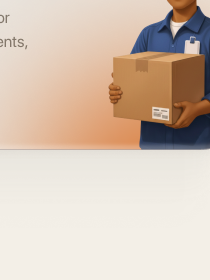
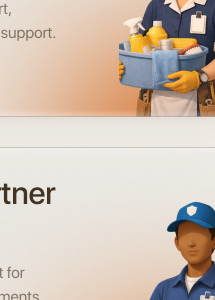
Fix hero image clipping and align Mission, Features, and Services with Figma.
Re-crop the hero team photo with proper headroom, rebuild Mission and Why Union sections using Figma grid assets, and refresh service card images and section styling.

diff --git a/src/components/Features.tsx b/src/components/Features.tsx
@@ -2,109 +2,30 @@ import Image from "next/image";
 import { SectionHeading } from "./ui/SectionHeading";
 import { SectionTag } from "./ui/SectionTag";
 
-const leftFeatures = [
-  { icon: "✓", title: "Verified Opportunities", desc: "Discover jobs for your skills." },
-  { icon: "👥", title: "Union Support", desc: "Empowering gig workers." },
-  { icon: "💼", title: "Flexible Work Options", desc: "Select your schedule." },
-  { icon: "💰", title: "Fair Wages", desc: "Reliable income." },
-];
-
-const rightFeatures = [
-  { icon: "🛡", title: "Trusted Professionals", desc: "All workers are verified." },
-  { icon: "▦", title: "Seamless Booking", desc: "Manage services easily." },
-  { icon: "🕐", title: "Flexible Scheduling", desc: "Book services anytime." },
-  { icon: "✓", title: "Safe & Transparent", desc: "Safe payments." },
-];
-
-function FeaturePill({
-  title,
-  desc,
-  icon,
-  className = "",
-}: {
-  title: string;
-  desc: string;
-  icon: string;
-  className?: string;
-}) {
-  return (
-    <div
-      className={`rounded-2xl border border-[#ebe8e4] bg-white/80 px-4 py-3 shadow-sm backdrop-blur-sm ${className}`}
-    >
-      <div className="flex items-start gap-2.5">
-        <span className="flex h-7 w-7 shrink-0 items-center justify-center rounded-lg bg-union-orange/10 text-xs text-union-orange">
-          {icon}
-        </span>
-        <div>
-          <div className="text-xs font-semibold text-[#3d3428]">{title}</div>
-          <div className="text-[10px] text-[#7a756d]">{desc}</div>
-        </div>
-      </div>
-    </div>
-  );
-}
-
 export function Features() {
   return (
-    <section className="py-16 md:py-24">
+    <section id="why-union" className="py-16 md:py-24">
       <div className="section-container">
         <div className="text-center">
-          <SectionTag>Features</SectionTag>
+          <SectionTag>Why Union?</SectionTag>
           <SectionHeading className="mt-4">
             Designed Around <em>Everyday People.</em>
           </SectionHeading>
           <p className="mx-auto mt-4 max-w-2xl text-sm text-union-gray md:text-base">
-            Empowering gig workers with better opportunities while delivering trusted, seamless services for modern homes.
+            Empowering gig workers with better opportunities while delivering trusted, seamless
+            services for modern homes.
           </p>
         </div>
 
-        <div className="relative mx-auto mt-14 max-w-4xl">
-          {/* Left pills - desktop */}
-          <div className="absolute top-0 left-0 z-10 hidden w-44 flex-col gap-3 md:flex">
-            {leftFeatures.map((f, i) => (
-              <FeaturePill key={f.title} {...f} className={i % 2 === 1 ? "ml-4" : ""} />
-            ))}
-          </div>
-
-          {/* Right pills - desktop */}
-          <div className="absolute top-0 right-0 z-10 hidden w-44 flex-col gap-3 md:flex">
-            {rightFeatures.map((f, i) => (
-              <FeaturePill key={f.title} {...f} className={i % 2 === 1 ? "mr-4" : ""} />
-            ))}
-          </div>
-
-          {/* Phone mockups */}
-          <div className="flex items-center justify-center gap-4 md:gap-6">
-            <div className="card-shadow w-[42%] max-w-[200px] overflow-hidden rounded-[2rem] border-[3px] border-union-orange bg-union-orange p-[3px]">
-              <div className="overflow-hidden rounded-[1.6rem] bg-white">
-                <Image
-                  src="/images/phone-feature-left.png"
-                  alt="Union worker app"
-                  width={200}
-                  height={400}
-                  className="h-auto w-full"
-                />
-              </div>
-            </div>
-            <div className="card-shadow w-[42%] max-w-[200px] overflow-hidden rounded-[2rem] border-[3px] border-union-orange bg-union-orange p-[3px]">
-              <div className="overflow-hidden rounded-[1.6rem] bg-white">
-                <Image
-                  src="/images/phone-feature-right.png"
-                  alt="Union customer app"
-                  width={200}
-                  height={400}
-                  className="h-auto w-full"
-                />
-              </div>
-            </div>
-          </div>
-
-          {/* Mobile pills */}
-          <div className="mt-8 grid grid-cols-2 gap-2 md:hidden">
-            {[...leftFeatures, ...rightFeatures].map((f) => (
-              <FeaturePill key={f.title} {...f} />
-            ))}
-          </div>
+        <div className="mt-12 w-full">
+          <Image
+            src="/images/features-section-grid.png"
+            alt="Union app for workers and customers with verified opportunities, union support, flexible work, fair wages, trusted professionals, seamless booking, flexible scheduling, and safe payments"
+            width={1152}
+            height={548}
+            className="h-auto w-full"
+            sizes="(max-width: 1152px) 100vw, 1152px"
+          />
         </div>
       </div>
     </section>

diff --git a/src/components/Mission.tsx b/src/components/Mission.tsx
@@ -1,5 +1,4 @@
 import Image from "next/image";
-import { HighlightText } from "./ui/HighlightText";
 import { SectionHeading } from "./ui/SectionHeading";
 import { SectionTag } from "./ui/SectionTag";
 
@@ -18,63 +17,16 @@ export function Mission() {
           </p>
         </div>
 
-        <div className="mt-12 grid gap-5 md:grid-cols-3 md:grid-rows-2">
-          {/* Workers card */}
-          <div className="relative overflow-hidden rounded-[28px] border border-[#ebe8e4] bg-[#f5f3f0] p-6 md:col-span-1">
-            <div className="overflow-hidden rounded-2xl border border-[#e8e5e1] bg-[#efeeea]">
-              <Image
-                src="/images/mission-card-workers.png"
-                alt="Verified gig workers"
-                width={340}
-                height={200}
-                className="h-auto w-full"
-              />
-            </div>
-            <div className="absolute right-5 bottom-5 flex h-8 w-8 items-center justify-center rounded-full bg-union-orange text-white shadow-[0_4px_12px_rgba(232,115,74,0.45)]">
-              <svg className="h-4 w-4" fill="none" viewBox="0 0 24 24" stroke="currentColor" strokeWidth={2.5}>
-                <path strokeLinecap="round" strokeLinejoin="round" d="M5 13l4 4L19 7" />
-              </svg>
-            </div>
-            <h3 className="mt-5 text-xl font-bold leading-snug text-[#3d3428] md:text-2xl">
-              Over 10,000+ <HighlightText>Verified Gig Workers</HighlightText>
-            </h3>
-            <p className="mt-2 text-sm leading-relaxed text-[#7a756d]">
-              Trusted professionals growing with Union every day.
-            </p>
-          </div>
-
-          {/* Earnings card */}
-          <div className="relative overflow-hidden rounded-[28px] border border-[#ebe8e4] bg-[#f5f3f0] md:col-span-1">
-            <Image
-              src="/images/mission-card-earnings.png"
-              alt="₹50L+ Worker Earnings Facilitated"
-              width={370}
-              height={250}
-              className="h-auto w-full"
-            />
-          </div>
-
-          {/* Phone card — spans 2 rows */}
-          <div className="relative overflow-hidden rounded-[28px] border border-[#ebe8e4] bg-[#f5f3f0] md:row-span-2">
-            <Image
-              src="/images/mission-card-phone.png"
-              alt="Union app job opportunities"
-              width={400}
-              height={520}
-              className="h-full w-full object-cover object-top"
-            />
-          </div>
-
-          {/* Cities card — spans 2 columns */}
-          <div className="relative overflow-hidden rounded-[28px] border border-[#ebe8e4] bg-[#f5f3f0] md:col-span-2">
-            <Image
-              src="/images/mission-card-cities-wide.png"
-              alt="5+ Cities Expanding Across"
-              width={760}
-              height={280}
-              className="h-auto w-full"
-            />
-          </div>
+        <div className="mt-12 w-full">
+          <Image
+            src="/images/mission-bento-grid.png"
+            alt="Over 10,000 verified gig workers, ₹50L+ earnings facilitated, 5+ cities expanding, and 100% verified opportunities"
+            width={1200}
+            height={500}
+            className="h-auto w-full"
+            sizes="(max-width: 1200px) 100vw, 1200px"
+            priority
+          />
         </div>
       </div>
     </section>

diff --git a/src/components/Hero.tsx b/src/components/Hero.tsx
@@ -1,9 +1,8 @@
-import Image from "next/image";
 import { AppStoreButtons } from "./ui/AppStoreButtons";
 
 export function Hero() {
   return (
-    <section className="gradient-hero overflow-hidden pt-12 pb-16 md:pt-16 md:pb-24">
+    <section className="gradient-hero pt-12 pb-16 md:pt-16 md:pb-24">
       <div className="section-container text-center">
         <h1 className="mx-auto max-w-4xl text-[clamp(36px,6vw,64px)] font-semibold leading-[1.1] tracking-tight text-union-dark">
           Your Daily Household Services, Powered by{" "}
@@ -17,17 +16,20 @@ export function Hero() {
 
         <AppStoreButtons className="mt-8 justify-center" />
 
-        <div className="relative mx-auto mt-10 max-w-4xl md:mt-14">
-          <div className="absolute inset-x-0 top-1/2 -translate-y-1/2">
+        <div className="relative mx-auto mt-10 w-full pt-2 md:mt-14">
+          <div className="pointer-events-none absolute inset-x-0 top-1/2 -z-10 -translate-y-1/2">
             <div className="mx-auto h-72 w-72 rounded-full bg-gradient-to-br from-union-orange/30 via-union-orange-light/20 to-transparent blur-3xl md:h-[420px] md:w-[420px]" />
           </div>
-          <Image
+          {/* eslint-disable-next-line @next/next/no-img-element */}
+          <img
             src="/images/hero-team.png"
             alt="Union workers team"
-            width={1000}
-            height={580}
-            className="relative mx-auto h-auto w-full max-w-3xl"
-            priority
+            width={1152}
+            height={465}
+            decoding="async"
+            className="mx-auto block w-full"
+            style={{ height: "auto", maxHeight: "none" }}
+            fetchPriority="high"
           />
         </div>
       </div>

diff --git a/src/app/globals.css b/src/app/globals.css
@@ -54,15 +54,17 @@ body {
 }
 
 .section-tag {
-  display: inline-block;
-  padding: 6px 16px;
+  display: inline-flex;
+  align-items: center;
+  gap: 6px;
+  padding: 6px 14px;
   border-radius: 9999px;
-  background: rgba(232, 115, 74, 0.12);
-  color: var(--union-orange);
-  font-size: 12px;
-  font-weight: 600;
-  letter-spacing: 0.08em;
-  text-transform: uppercase;
+  background: rgba(255, 255, 255, 0.7);
+  color: var(--union-gray);
+  font-size: 13px;
+  font-weight: 500;
+  letter-spacing: 0;
+  text-transform: none;
 }
 
 .section-heading {

diff --git a/src/components/ui/SectionTag.tsx b/src/components/ui/SectionTag.tsx
@@ -1,3 +1,10 @@
 export function SectionTag({ children }: { children: string }) {
-  return <span className="section-tag">{children}</span>;
+  return (
+    <span className="section-tag inline-flex items-center gap-1.5 border border-[#e8e5e1] bg-white/60">
+      <svg className="h-3 w-3 shrink-0 text-union-orange" viewBox="0 0 24 24" fill="currentColor" aria-hidden>
+        <path d="M12 2.5l1.8 5.5h5.9l-4.8 3.5 1.8 5.5L12 16.5l-4.7 3.5 1.8-5.5-4.8-3.5h5.9L12 2.5z" />
+      </svg>
+      {children}
+    </span>
+  );
 }

diff --git a/src/components/Header.tsx b/src/components/Header.tsx
@@ -8,7 +8,7 @@ const navLinks = [
   { label: "Our Model", href: "#mission" },
   { label: "Services", href: "#services" },
   { label: "User Stories", href: "#testimonials" },
-  { label: "Why Union", href: "#how-it-works" },
+  { label: "Why Union", href: "#why-union" },
   { label: "FAQs", href: "#faq" },
 ];
 
